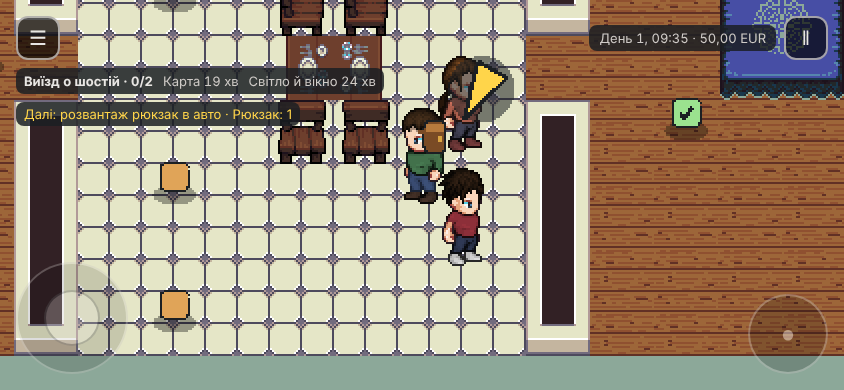
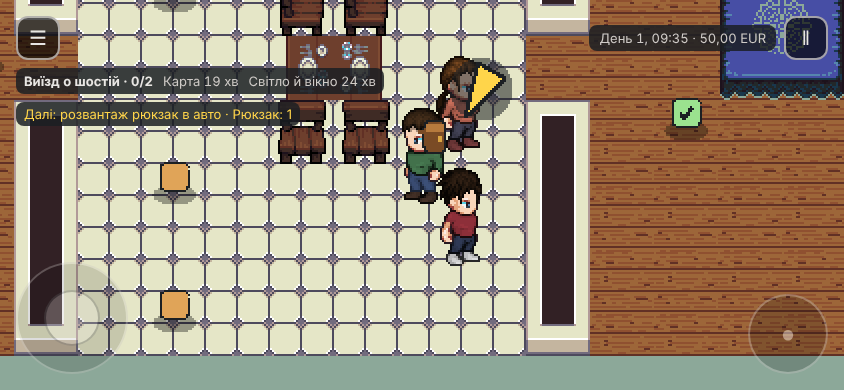
GAME-175: рюкзак обличчям до глядача — лямки й пряжка на грудях, а не на обличчі
Claude-Session: https://claude.ai/code/session_01RoJJJhaZjeur2b1tUo6iMd

Changed region(s): [[0.5237, 0.1231, 0.6161, 0.4], [0.5237, 0.4308, 0.5853, 0.6769]]

diff --git a/src/view/world/map-fx.ts b/src/view/world/map-fx.ts
@@ -58,12 +58,12 @@ export class MapFx {
       g.lineStyle(1, OUT, 1).strokeRoundedRect(x - 8, y - 38, 16, 17, 3);
       g.setDepth(y + 0.5);
     } else if (facing === 'down') {
-      // Рюкзак позаду: краї над плечима й з боків (глибина позаду тіла) + лямки на грудях (глибина попереду). Дві частини: цей Graphics — спереду, лямки й краї малюємо разом, краї виступають за тіло.
-      g.fillStyle(body, 1).fillRoundedRect(x - 11, y - 36, 5, 13, 2).fillRoundedRect(x + 6, y - 36, 5, 13, 2);
-      g.lineStyle(1, OUT, 1).strokeRoundedRect(x - 11, y - 36, 5, 13, 2).strokeRoundedRect(x + 6, y - 36, 5, 13, 2);
-      g.fillStyle(flap, 1).fillRect(x - 9, y - 38, 18, 3).lineStyle(1, OUT, 1).strokeRect(x - 9, y - 38, 18, 3);
-      g.fillStyle(body, 1).fillRect(x - 5, y - 33, 3, 11).fillRect(x + 2, y - 33, 3, 11);
-      g.fillStyle(buckle, 1).fillRect(x - 5, y - 28, 10, 2);
+      // Обличчям до глядача: рюкзак за спиною визирає лише з боків тулуба, а на грудях — дві лямки з пряжкою.
+      // Усе на тулубі (від y−19): над плечима нічого не малюємо, щоб не закрити обличчя.
+      g.fillStyle(body, 1).fillRoundedRect(x - 12, y - 19, 4, 11, 2).fillRoundedRect(x + 8, y - 19, 4, 11, 2);
+      g.lineStyle(1, OUT, 1).strokeRoundedRect(x - 12, y - 19, 4, 11, 2).strokeRoundedRect(x + 8, y - 19, 4, 11, 2);
+      g.fillStyle(body, 1).fillRect(x - 5, y - 19, 2, 9).fillRect(x + 3, y - 19, 2, 9);
+      g.fillStyle(buckle, 1).fillRect(x - 5, y - 14, 10, 2);
       g.setDepth(y + 0.5);
     } else {
       const back = facing === 'left' ? 1 : -1;   // спина — з протилежного боку від напрямку погляду
